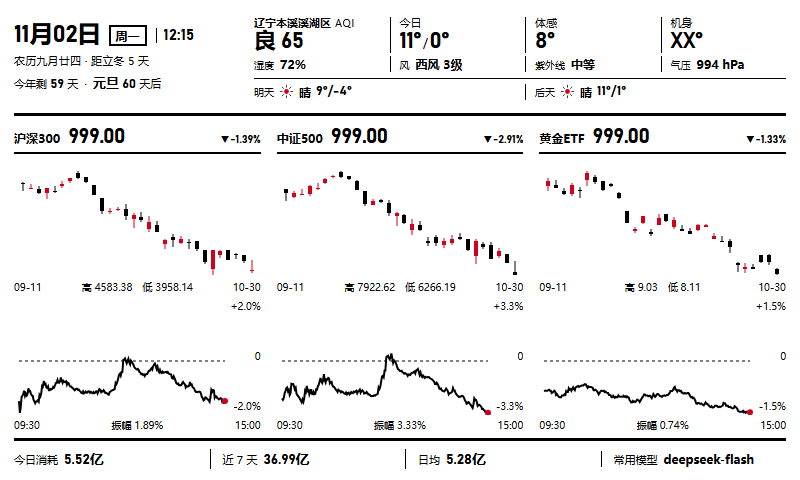
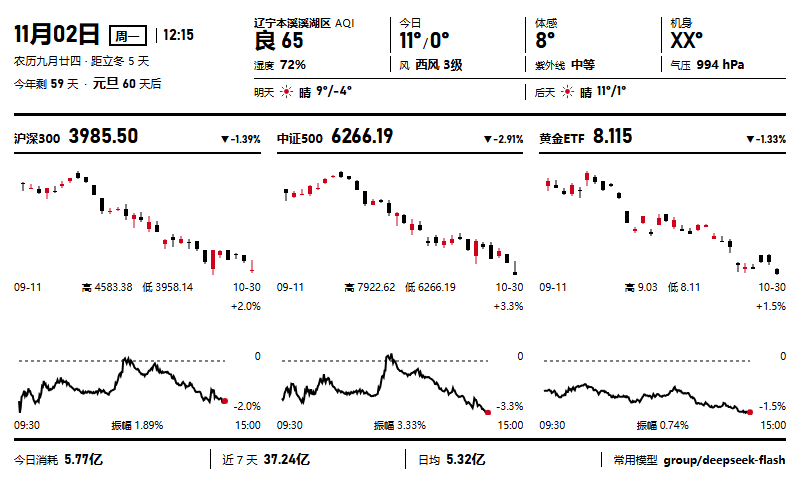
docs: record the twelve hour retention test

diff --git a/dashboard/epd-dashboard.html b/dashboard/epd-dashboard.html
@@ -505,7 +505,7 @@
 		}
 
 		.ftr .v.model {
-			font-size: 12px;
+			font-size: 11px;
 			overflow: hidden;
 			text-overflow: ellipsis;
 		}

diff --git a/dashboard/epd_update.py b/dashboard/epd_update.py
@@ -370,9 +370,6 @@ def collect_tokens():
     finally:
         con.close()
 
-    if model and "/" in model:
-        model = model.split("/")[-1]
-
     return {
         "today": int(today),
         "week": int(week),

diff --git a/docs/dashboard.md b/docs/dashboard.md
@@ -69,6 +69,23 @@ PTIN -> PTL 窗口 -> 写数据 -> DRF -> PTOUT
 
 自写三色波形的红色表还需要调，目标是在 3 到 5 秒内把红色粒子可靠地翻上来。参数在 `host/epdash3.py` 的 `RED` 数组里。
 
+### 隔夜保活实测
+
+2026-11-02 夜到 11-03 早，实测 12 小时。
+
+做法：三色整刷后，用黑白零波形局刷在左上角画一个 64x64 黑方块，然后断开，只发 POF 并保持 RST 高电平。
+
+第二天重连，用同一窗口擦白。结果：
+
+- 方块从纯黑变成灰色，说明旧图缓冲还在，K 到 W 的转换被执行了
+- 只有那个窗口闪，屏幕其他地方完全不动
+- 红色元素一点没变淡
+- 电压从 2689 mV 降到 2619 mV
+
+结论：面板缓冲可以跨整夜保留，30 分钟一次的更新不用每次重置。
+
+方块没变纯白，说明黑转白的驱动仍然偏弱。要更干净，需要加强 LUTKW 的重复次数，或者接受周期性清场。
+
 ### 设备侧可验证
 
 读 FLG 寄存器 0x71，D6 是 PTL_Flag：
